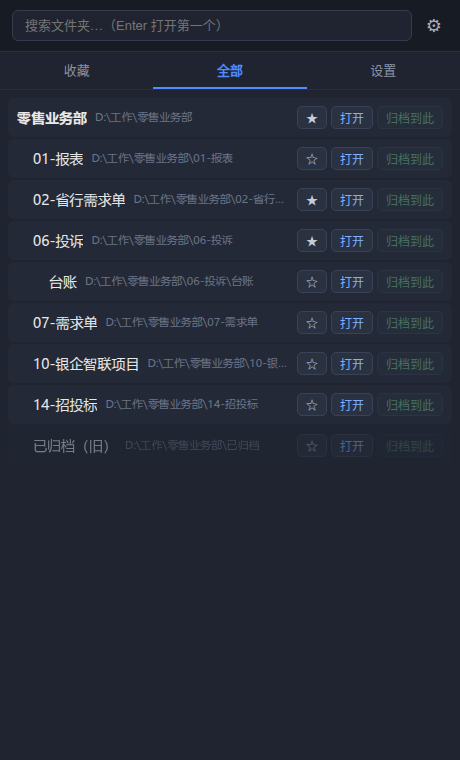
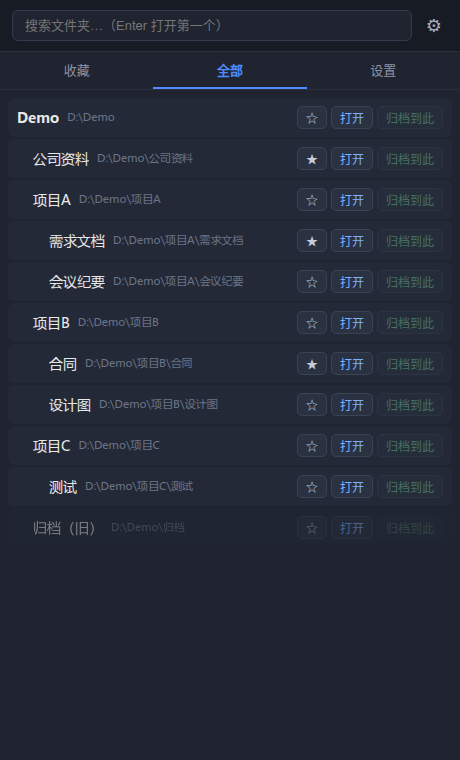
fix: 截图与 demo 数据改用虚构文件夹命名，避免泄漏真实目录结构

diff --git a/src/main.ts b/src/main.ts
@@ -54,11 +54,11 @@ async function loadConfig(): Promise<void> {
   } else {
     config = {
       favorites: [
-        "D:\\工作\\零售业务部",
-        "D:\\工作\\零售业务部\\02-省行需求单",
-        "D:\\工作\\零售业务部\\06-投诉",
+        "D:\\Demo\\公司资料",
+        "D:\\Demo\\项目A\\需求文档",
+        "D:\\Demo\\项目B\\合同",
       ],
-      root_dirs: ["D:\\工作\\零售业务部"],
+      root_dirs: ["D:\\Demo"],
       hotkey: "Alt+Shift+F",
       scan_depth: 3,
       autostart: true,
@@ -76,15 +76,17 @@ async function refreshFolders(): Promise<void> {
     folders = await invoke<FolderEntry[]>("scan_folders");
   } else {
     folders = [
-      { path: "D:\\工作\\零售业务部", name: "零售业务部", depth: 0, is_favorite: true, exists: true },
-      { path: "D:\\工作\\零售业务部\\01-报表", name: "01-报表", depth: 1, is_favorite: false, exists: true },
-      { path: "D:\\工作\\零售业务部\\02-省行需求单", name: "02-省行需求单", depth: 1, is_favorite: true, exists: true },
-      { path: "D:\\工作\\零售业务部\\06-投诉", name: "06-投诉", depth: 1, is_favorite: true, exists: true },
-      { path: "D:\\工作\\零售业务部\\06-投诉\\台账", name: "台账", depth: 2, is_favorite: false, exists: true },
-      { path: "D:\\工作\\零售业务部\\07-需求单", name: "07-需求单", depth: 1, is_favorite: false, exists: true },
-      { path: "D:\\工作\\零售业务部\\10-银企智联项目", name: "10-银企智联项目", depth: 1, is_favorite: false, exists: true },
-      { path: "D:\\工作\\零售业务部\\14-招投标", name: "14-招投标", depth: 1, is_favorite: false, exists: true },
-      { path: "D:\\工作\\零售业务部\\已归档", name: "已归档（旧）", depth: 1, is_favorite: false, exists: false },
+      { path: "D:\\Demo", name: "Demo", depth: 0, is_favorite: false, exists: true },
+      { path: "D:\\Demo\\公司资料", name: "公司资料", depth: 1, is_favorite: true, exists: true },
+      { path: "D:\\Demo\\项目A", name: "项目A", depth: 1, is_favorite: false, exists: true },
+      { path: "D:\\Demo\\项目A\\需求文档", name: "需求文档", depth: 2, is_favorite: true, exists: true },
+      { path: "D:\\Demo\\项目A\\会议纪要", name: "会议纪要", depth: 2, is_favorite: false, exists: true },
+      { path: "D:\\Demo\\项目B", name: "项目B", depth: 1, is_favorite: false, exists: true },
+      { path: "D:\\Demo\\项目B\\合同", name: "合同", depth: 2, is_favorite: true, exists: true },
+      { path: "D:\\Demo\\项目B\\设计图", name: "设计图", depth: 2, is_favorite: false, exists: true },
+      { path: "D:\\Demo\\项目C", name: "项目C", depth: 1, is_favorite: false, exists: true },
+      { path: "D:\\Demo\\项目C\\测试", name: "测试", depth: 2, is_favorite: false, exists: true },
+      { path: "D:\\Demo\\归档", name: "归档（旧）", depth: 1, is_favorite: false, exists: false },
     ];
   }
   render();
